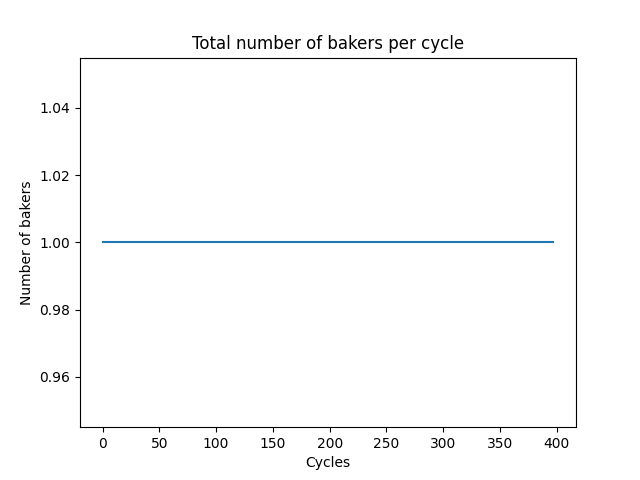
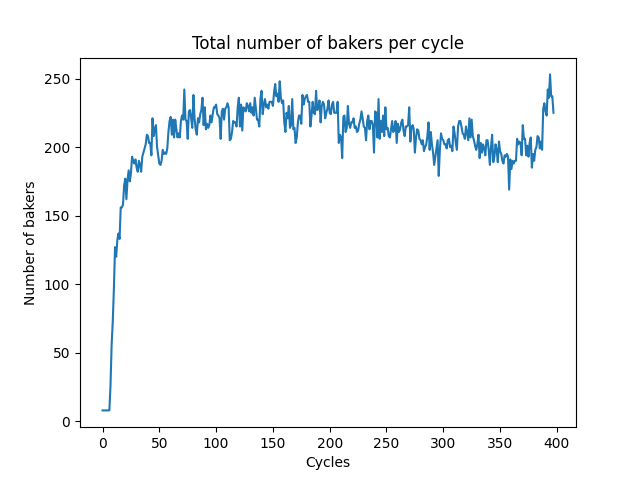
Add cycle creation script and adapt numbakers and numstakes plot

diff --git a/tezos_blocks_dbread.py b/tezos_blocks_dbread.py
@@ -64,7 +64,7 @@ def plot_reward_standarddeviation_all_cycles():
     plt.plot(x1_data, y1_data, label='baseline')
     # show a line where major protocol upgrades are
     plt.axvline(160, 0, 1, label='Babylon 2.0', color='red')
-    plt.axvline(208, 0, 1, label='Carthago 2.0', color='red')
+    plt.axvline(208, 0, 1, label='Carthage 2.0', color='red')
     plt.axvline(271, 0, 1, label='Delphi', color='red')
     plt.axvline(325, 0, 1, label='Edo', color='red')
     plt.axvline(355, 0, 1, label='Florence', color='red')
@@ -188,11 +188,9 @@ def compute_gini_all_bakers_staking_per_cycle():
 
 
 def compute_num_bakers_per_cycle_list():
-    """ TODO: rerun this as soon as cycles db corrected """
     num_bakers_list = []
     cycles = list(range(0, num_cycles))
     for cycle in cycles:
-        # num_baker = cur.execute('SELECT COUNT(DISTINCT(baker)) from cyclerewards where cycle=?', (cycle,)).fetchall()
         num_baker = cur.execute('SELECT working_bakers from cycles where cycle=?', (cycle,)).fetchall()
         num_bakers_list.append(num_baker[0])
     print(num_bakers_list)
@@ -200,11 +198,10 @@ def compute_num_bakers_per_cycle_list():
 
 
 def compute_num_stakes_per_cycle_list():
-    """TODO: rerun this as soon as cycle db corrected"""
     num_stakes_list = []
     cycles = list(range(0, num_cycles))
     for cycle in cycles:
-        num_baker = cur.execute('SELECT stake_percent from cycles where cycle=?', (cycle,)).fetchall()
+        num_baker = cur.execute('SELECT staking_supply from cycles where cycle=?', (cycle,)).fetchall()
         num_stakes_list.append(num_baker[0])
     print(num_stakes_list)
     return num_stakes_list
@@ -241,7 +238,7 @@ def plot_gini_indexes_all_bakers_staking_balance_per_cycle():
 
 
 def plot_num_bakers_per_cycle():
-    '''TODO: integrate the new cycles table take working_bakers instead of the cyclerewards table'''
+    """TODO: integrate the new cycles table take working_bakers instead of the cyclerewards table"""
     x_data = list(range(0, num_cycles))
     y_data = compute_num_bakers_per_cycle_list()
     plt.plot(x_data, y_data)
@@ -254,7 +251,6 @@ def plot_num_bakers_per_cycle():
 
 
 def plot_total_amount_of_stakes_per_cycle():
-    '''TODO: implement this with the new cycleds table'''
     x_data = list(range(0, num_cycles))
     y_data = compute_num_stakes_per_cycle_list()
     plt.plot(x_data, y_data)
@@ -396,11 +392,13 @@ if __name__ == '__main__':
     # plot_era_stakes_gini(271, 325, 'Delphi')  # cycle 271 to 325 delphi
     # plot_era_stakes_gini(326, 397, 'Edo')  # cycle 325 to today edo
 
-    # plot_num_bakers_per_cycle()  # TODO: 1) run again as soon as new cycledb integrated
-    # plot_total_amount_of_stakes_per_cycle() # TODO: 2) run this as soon as new cycledb integrated
+    plot_num_bakers_per_cycle()
+    plot_total_amount_of_stakes_per_cycle()
     # TODO: look at a snapshot and plot the gini over a section of blocks (i.e. a snapshot)
     cur.close()
 
-# TODO: make a plot on how many bakers/cycle
 # TODO: make a plot with x axis staking of bakers (all bakers on x axis), y axis rewards of the bakers
 # just do it for a few cycles and select randomly (i.e .for higher stake we should have higher reward -> 45 degree)
+
+
+# TODO: get all the cycles and then join the cycles table with the blocks table to get all the bakers that correspond to a cycle

diff --git a/cyclescreation.py b/cyclescreation.py
@@ -1,0 +1,72 @@
+# -*- coding: utf-8 -*-
+"""CyclesCreation.ipynb
+
+Automatically generated by Colaboratory.
+
+Original file is located at
+    https://colab.research.google.com/drive/1gTg6i0kyLFeYb_PoAJSAGMDO5IQtPuTG
+"""
+
+# cycle, start_time, active_bakers, working_bakers, staking_supply, staking_percent
+
+import json
+import requests
+from pprint import pprint
+import numpy as np
+
+# create a DB with sqlite3
+import sqlite3
+conn = sqlite3.connect('tezos_cycles_data.db')
+c = conn.cursor() # db saved in location where .py file is save
+
+class Cycle:
+
+  def __init__(self, cycle, start_time, active_bakers, working_bakers, staking_supply, staking_percent):
+    self.cycle = cycle
+    self.start_time = start_time
+    self.active_bakers = active_bakers
+    self.working_bakers = working_bakers
+    self.staking_supply = staking_supply
+    self.staking_percent = staking_percent
+
+# Cycles (get cycles by cyclenumber)
+api_url_cycles = 'https://api.tzstats.com/explorer/cycle/' # take cycle 0 to 404
+
+# get all cycles
+cycles = list(range(0,404))
+#cycles = np.asarray(cycles)
+#cycles = [str(x) for x in cycles] # TODO: why do we need strings -> problem with inserting integer below when its actually a string
+#print('cycles before',cycles)
+#cycles = np.asarray(cycles)
+#print('cycles after',cycles)
+cycles_response = []
+
+for cy in cycles: 
+  # can only concatenate strings therefore we need string here
+  r = requests.get(api_url_cycles + str(cy))
+  cycles_response.append(r.json())
+print('cycles_response', cycles_response)
+print('first entry', cycles_response[0])
+
+# create a cycles table
+c.execute(''' SELECT count(name) from sqlite_master where type='table' AND name='cycles' ''')
+
+if c.fetchone()[0]==1:
+  c.execute('DROP TABLE cycles')
+  c.execute('''CREATE TABLE cycles (cycle integer, start_time text, active_bakers integer, working_bakers integer, staking_supply real, staking_percent real)''')
+else: 
+  c.execute('''CREATE TABLE cycles (cycle integer, start_time text, active_bakers integer, working_bakers integer, staking_supply real, staking_percent real)''')
+
+def insert_cycles(cyc):
+  with conn: 
+    c.execute('INSERT INTO cycles VALUES(:cycle, :start_time, :active_bakers, :working_bakers, :staking_supply, :staking_percent)', {'cycle': cyc.cycle, 'start_time': cyc.start_time, 'active_bakers': cyc.active_bakers, 'working_bakers': cyc.working_bakers, 'staking_supply': cyc.staking_supply, 'staking_percent': cyc.staking_percent})
+
+# add contract to db
+if len(cycles) > 0:
+  for cr in cycles_response:
+    #print('cr',cr)
+    #print('cr cycle', cr['cycle'])
+    cyc = Cycle(cr['cycle'], cr['start_time'], cr['active_bakers'], cr['working_bakers'], cr['staking_supply'], cr['staking_percent'])
+    insert_cycles(cyc)
+
+conn.commit()

diff --git a/db_changes.py b/db_changes.py
@@ -19,3 +19,11 @@
 # dbfile2 = '/home/anjakoller/tezos_'
 # con = sqlite3.connect(dbfile)  # attributes: cycle, baker, fee, reward, deposit, blocks (merged db)
 # cur = con.cursor()
+
+
+# write one db to another db_b.cycles to db_a.cycles
+# first create table cycles on db_a, then append db_b then execute:
+# insert into cycles select * from db_b.cycles
+
+
+# insert into cycles (cycle, start_time, active_bakers, working_bakers, staking_supply, staking_percent) SELECT (cycle, start_time, active_bakers, working_bakers, staking_supply, staking_percent)  from tezos_cycles_data.cycles;
